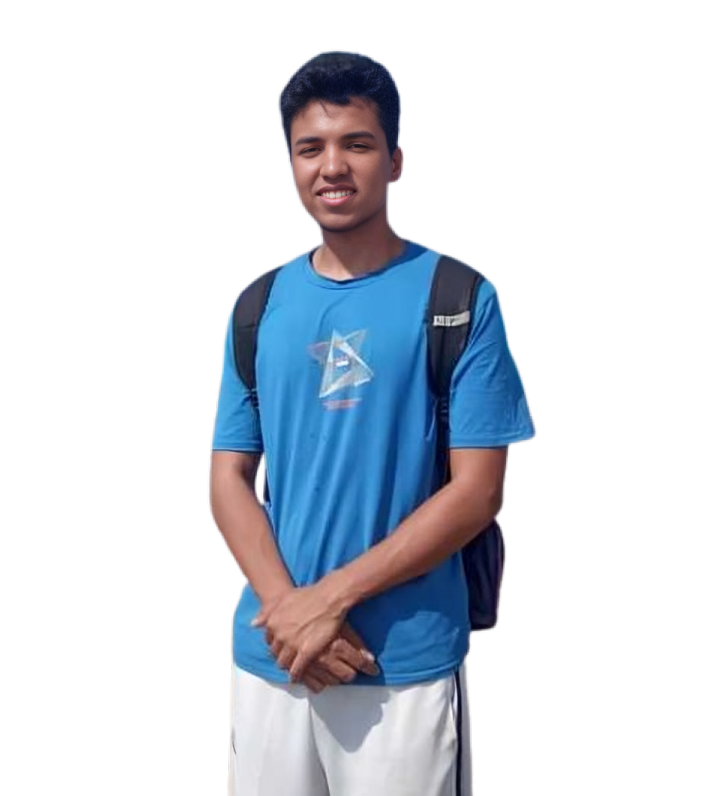
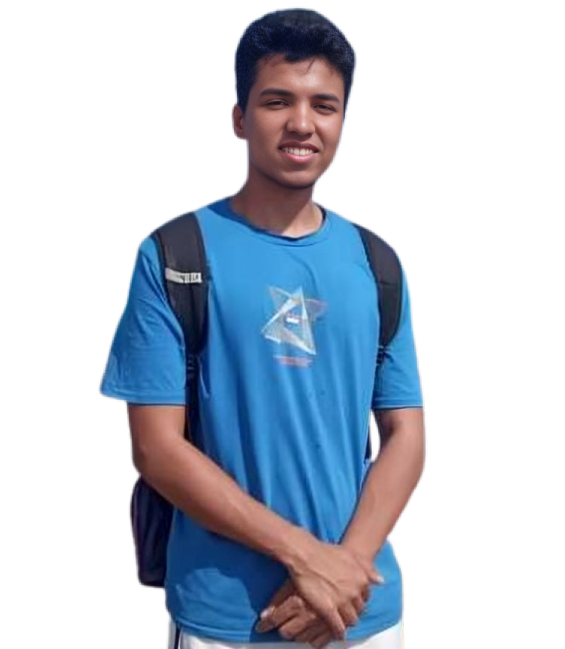
edit some home amimation 👌

diff --git a/src/components/AnimationBlob.jsx b/src/components/AnimationBlob.jsx
@@ -1,0 +1,46 @@
+import React from 'react';
+
+function AnimatedBlob() {
+    return (
+        <div className="blob">
+            <svg viewBox="0 0 500 500" xmlns="http://www.w3.org/2000/svg" xmlnsXlink="http://www.w3.org/1999/xlink" width="100%" id="blobSvg">
+                <path fill="#12f7ff">
+                    <animate
+                        repeatCount="indefinite"
+                        attributeName="d"
+                        dur="10s"
+                        values="
+                            M444,297.5Q415,345,375.5,372Q336,399,293,442.5Q250,486,205.5,445Q161,404,98.5,
+                            388.5Q36,373,21.5,311.5Q7,250,63,212.5Q119,175,134.5,126Q150,77,200,60.5Q250,
+                            44,289.5,78.5Q329,113,367,137Q405,161,439,205.5Q473,250,444,297.5Z;
+
+                            M432,305.5Q442,361,395,390.5Q348,420,299,450Q250,480,202.5,447Q155,414,123,378Q91,
+                            342,56.5,296Q22,250,52.5,202Q83,154,124,128.5Q165,103,207.5,78Q250,53,308,51Q366,
+                            49,409,91Q452,133,437,191.5Q422,250,432,305.5Z;
+
+                            M427.5,296Q410,342,388.5,397Q367,452,308.5,460.5Q250,469,191,462Q132,455,122.5,392Q113,
+                            329,64.5,289.5Q16,250,32.5,192Q49,134,102.5,110.5Q156,87,203,78.5Q250,70,303.5,67.5Q357,
+                            65,411.5,95Q466,125,455.5,187.5Q445,250,427.5,296Z;
+
+                            M470,307.5Q449,365,391.5,380.5Q334,396,292,446Q250,496,190.5,476Q131,456,124.5,391Q118,
+                            326,61.5,288Q5,250,59.5,211Q114,172,120,104Q126,36,188,59.5Q250,83,290,97Q330,111,368,
+                            135.5Q406,160,448.5,205Q491,250,470,307.5Z;
+
+
+                            M416,298.5Q417,347,389.5,395.5Q362,444,306,471.5Q250,499,196.5,467.5Q143,436,106,395.5Q69,355,72,302.5Q75,250,61,191.5Q47,133,96.5,101.5Q146,70,198,55.5Q250,41,300,59.5Q350,78,370,123.5Q390,169,402.5,209.5Q415,250,416,298.5Z;
+
+                            M416.5,293.5Q401,337,386,398Q371,459,310.5,436.5Q250,414,208.5,403.5Q167,393,102.5,382.5Q38,372,44,311Q50,250,80,209.5Q110,169,139.5,139Q169,109,209.5,97.5Q250,86,295.5,89Q341,92,362.5,132.5Q384,173,408,211.5Q432,250,416.5,293.5Z;
+
+                            M444,297.5Q415,345,375.5,372Q336,399,293,442.5Q250,486,205.5,445Q161,404,98.5,
+                            388.5Q36,373,21.5,311.5Q7,250,63,212.5Q119,175,134.5,126Q150,77,200,60.5Q250,
+                            44,289.5,78.5Q329,113,367,137Q405,161,439,205.5Q473,250,444,297.5Z;
+
+                        "
+                    />
+                </path>
+            </svg>
+        </div>
+    );
+}
+
+export default AnimatedBlob;

diff --git a/public/style.css b/public/style.css
@@ -381,19 +381,26 @@ nav.navbar .navbar-toggler[aria-expanded="true"] .navbar-toggler-icon {
 .intro button:hover svg {
   margin-left: 25px;
 }
-.intro img {
-  animation: updown 3s linear infinite;
+.home-image {
+  position: relative;
 }
-@keyframes updown {
-    0% {
-        transform: translateY(-20px);
-    }
-    50% {
-        transform: translateY(20px);
-    }
-    100% {
-        transform: translateY(-20px);
-    }
+.img-box {
+  text-align: center;
+}
+.img-box img {
+  width: 400px;
+  max-width: 500px;
+  height: auto;
+}
+.blob {
+  position: absolute;
+  top: 10%;
+  z-index: -1;
+  width: 100%;
+  height: 100%;
+}
+.blob:nth-child(2) {
+  filter: blur(50px);
 }
 .txt-rotate > .wrap {
   border-right: 0.08em solid #666;
@@ -411,25 +418,6 @@ nav.navbar .navbar-toggler[aria-expanded="true"] .navbar-toggler-icon {
   color: var(--text-color);
   letter-spacing: 0.8px;
   margin-top: 20px;
-}
-.profile-img {
-  width: 50vw; 
-  height: 50vw; 
-  max-width: 400px; 
-  max-height: 400px; 
-  border-radius: 50%;
-  overflow: hidden;
-  display: flex;
-  justify-content: center;
-  align-items: center;
-  background: linear-gradient(to right, var(--p2color), var(--p1color));
-  padding: 5px; 
-  margin: 0 auto; 
-  -webkit-box-shadow: -1px 18px 13.5px -1px #dddddd;
-  -moz-box-shadow: -1px 18px 13.5px -1px #dddddd;
-  box-shadow: -1px 18px 13.5px -1px #dddddd;
-  margin-bottom: 2rem;
-  animation: moveUpAndDown 3s infinite;
 }
 
 /************ Skills Css ************/

diff --git a/src/components/Intro.jsx b/src/components/Intro.jsx
@@ -2,6 +2,7 @@ import React, { useEffect, useRef } from "react";
 import { Container, Row, Col } from "react-bootstrap";
 import { BsArrowRightCircle } from "react-icons/bs";
 import Typed from "typed.js";
+import AnimatedBlob from "./AnimationBlob";
 
 function Intro() {
   // Create a reference to the element where Typed.js will insert the typing effect
@@ -47,11 +48,17 @@ function Intro() {
             </button>
           </Col>
           <Col xs={12} md={6} xl={5}>
-            <img
-              style={{ transform: 'scaleX(-1)' }}
-              src="./assets/images/ahmed.png"
-              alt="intro"
-            />
+           <div className="home-image">
+            <div className = "img-box ">
+              <img
+                style={{ transform: 'scaleX(-1)' }}
+                src="./assets/images/ahmed.png"
+                alt="intro"
+              />
+            </div>
+            <AnimatedBlob />
+            <AnimatedBlob />
+            </div>
           </Col>
         </Row>
       </Container>

diff --git a/index.html b/index.html
@@ -9,10 +9,8 @@
  <body>
   <div id="root"></div>
   <canvas id="canvas"></canvas>
-
   
-
-
+  
 
   
   <script src="/main.js"></script>
